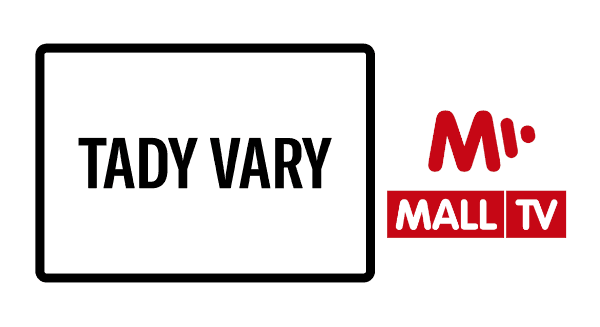
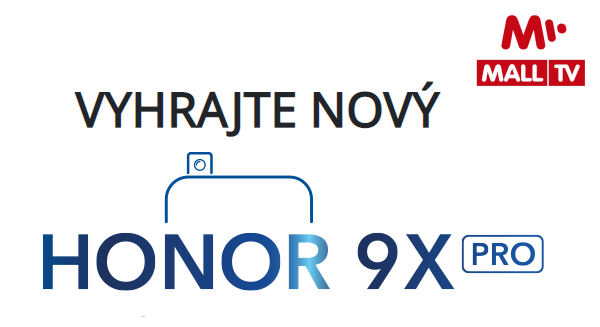
new

Changed region(s): [[0.06, 0.1223, 0.96, 0.8869], [0.78, 0.1835, 0.99, 0.2752], [0.81, 0.0306, 0.96, 0.1529]]

diff --git a/index.html b/index.html
@@ -25,19 +25,18 @@
     <div id="header" class="section">
         <div class="container">
             <h1>Vyhrajte nový Honor 9X Pro</h1>
-            <img class="logo" alt="Tady Vary" src="images/logo.gif">
+            <div class="page-title"><div class="page-title-txt">Vyhrajte nový</div><img class="logo" alt="Honor 9X Pro" src="images/logo-9x.png"></div>
         </div>
     </div>
 
-    <div id="win-section" class="section">
+    <div id="win-section" class="section dark">
         <div class="container">
-            <h2>VYHRAJTE NOVÝ HONOR 9X PRO</h2>
             <div class="em-cont">
 
                 <div class="embed">
 
-                    <iframe scrolling="no" src="https://www.mall.tv/embed/honor-9x-pro"
-                        frameborder="0" gesture="media" allow="encrypted-media" allowfullscreen=""></iframe>
+                    <iframe scrolling="no" src="https://www.mall.tv/embed/honor-9x-pro" frameborder="0" gesture="media"
+                        allow="encrypted-media" allowfullscreen=""></iframe>
 
                 </div>
 
@@ -50,10 +49,11 @@
 
         </div>
     </div>
-    <div id="howto-section" class="section">
+    <div id="howto-section" class="section dark">
         <div class="container">
             <h2>JAK HRÁT?</h2>
-            <p>Od <strong>úterý 6.7. do neděle 12. 7.</strong> se budou v pořadech internetové televize MALL.TV objevovat nápovědy, pomocí kterých se v neděli dostanete až do finálových bojů. Jak? </p>
+            <p>Od <strong>úterý 6.7. do neděle 12. 7.</strong> se budou v pořadech internetové televize MALL.TV
+                objevovat nápovědy, pomocí kterých se v neděli dostanete až do finálových bojů. Jak? </p>
 
         </div>
     </div>
@@ -70,14 +70,12 @@
 
             <div class="row mb-5 text-center">
                 <div class="col-12 col-md-6 flex-loga">
-                    <h3>Mediální partner projektu</h3>
-                    <div class="logo-box velke"><img class="lozad malltv"
-                            src="http://tadyvary.mall.tv/images/partneri/mall_tv.png" alt="MALL.TV"></div>
+                    <div class="logo-box velke"><img class="lozad malltv" src="/images/loga/honor.png" alt="HONOR">
+                    </div>
                 </div>
                 <div class="col-12 col-md-6 flex-loga">
-                    <h3>Mediální partner projektu</h3>
-                    <div class="logo-box velke"><img class="lozad malltv"
-                            src="http://tadyvary.mall.tv/images/partneri/mall_tv.png" alt="MALL.TV"></div>
+                    <div class="logo-box velke"><img class="lozad malltv" src="/images/loga/mall_tv.png" alt="MALL.TV">
+                    </div>
                 </div>
             </div>
         </div>

diff --git a/style.css b/style.css
@@ -13,11 +13,22 @@ h2,
 h3,
 h4,
 h5,
-h6 {
+h6 ,
+.page-title-txt {
     font-family: 'Noto Sans', sans-serif;
     text-transform: uppercase;
+    font-weight: bold;
 }
-
+.page-title-txt {
+    font-size: 3rem;
+    padding-bottom: 15px;
+}
+#header {
+    padding: 60px 0;
+}
+h1 {
+    display: none;
+}
 h2 {
     font-size: 2.5rem;
 }
@@ -29,7 +40,8 @@ h2 {
     padding: 25px 0;
 }
 #head-stripe {
-    background: #F8F8F8;
+    background: black;
+    color: white;
     padding: 15px 0;
     font-family: 'News Cycle', sans-serif;
     text-transform: uppercase;
@@ -54,9 +66,6 @@ h2 {
 }
 #header .container {
     text-align: center;
-}
-#header .container h1 {
-    display: none;
 }
 img.logo {
     max-height: 300px;
@@ -1130,3 +1139,12 @@ div#other-short-movies, div#other-movies {
 span.red {
     color: #FF0000;
 } */
+
+.section.dark {
+    color: white;
+background: rgb(255,0,208);
+background: linear-gradient(135deg, rgba(255,0,208,1) 0%, rgba(40,146,255,1) 33%, rgba(19,203,255,1) 87%, rgba(0,255,255,1) 100%);
+}
+#win-section {
+    padding-top: 45px;
+}
